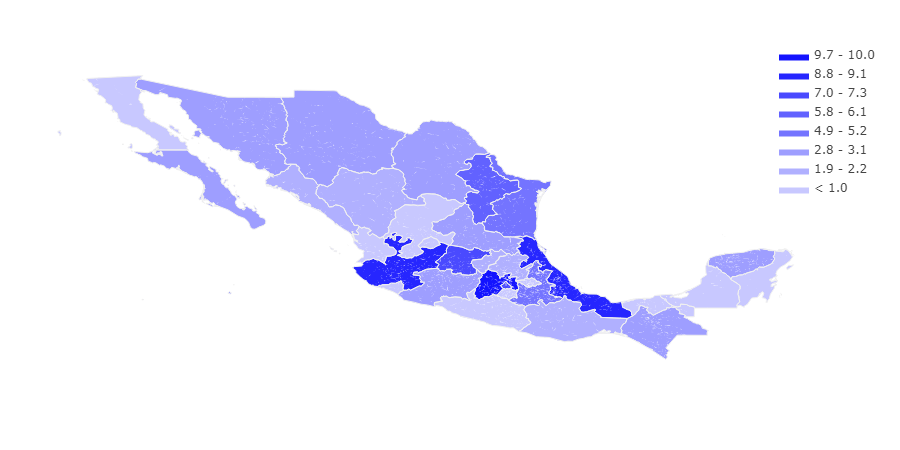
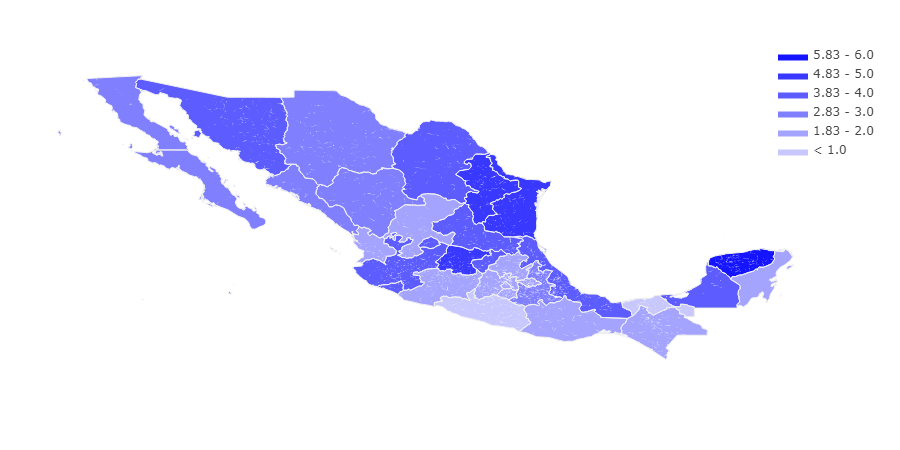
calculated percentage of votes normalized by state voting population, corrected plots

diff --git a/presidential_elections.py b/presidential_elections.py
@@ -52,11 +52,18 @@ def get_state_votes_of(party = ['TOTAL_VOTOS']):
         party=coalition
     else:
         party = party[0]
-        mx_pres_2012_df = mx_pres_2012_df[['ID_ESTADO','NOMBRE_ESTADO',party]]
+        mx_pres_2012_df = mx_pres_2012_df[['ID_ESTADO','NOMBRE_ESTADO', 'LISTA_NOMINAL', party]]
     #aggregate results by state
     mx_pres_2012_gp = mx_pres_2012_df.groupby(['NOMBRE_ESTADO'])
-    mx_pres_2012_total = mx_pres_2012_gp[party].sum()
-    mx_pres_2012_percent = mx_pres_2012_total/mx_pres_2012_total.sum()
+    #need to provide list to group by in order to get a dataframe
+    tmp_list = []
+    tmp_list.append(party)
+    mx_pres_2012_total = mx_pres_2012_gp[tmp_list].sum()
+    mx_pres_2012_nominal = mx_pres_2012_gp[['LISTA_NOMINAL']].sum()
+    #normalize by states total voters
+    merged = pd.merge(mx_pres_2012_nominal,mx_pres_2012_total, left_index=True, right_index=True)
+    mx_pres_2012_percent = merged[party]/merged['LISTA_NOMINAL']
+    mx_pres_2012_percent = mx_pres_2012_percent/mx_pres_2012_percent.sum()
     mx_pres_2012_percent = mx_pres_2012_percent.apply(lambda x: 100*round(x,2))
     return mx_pres_2012_percent
 #2012 coalitions:
